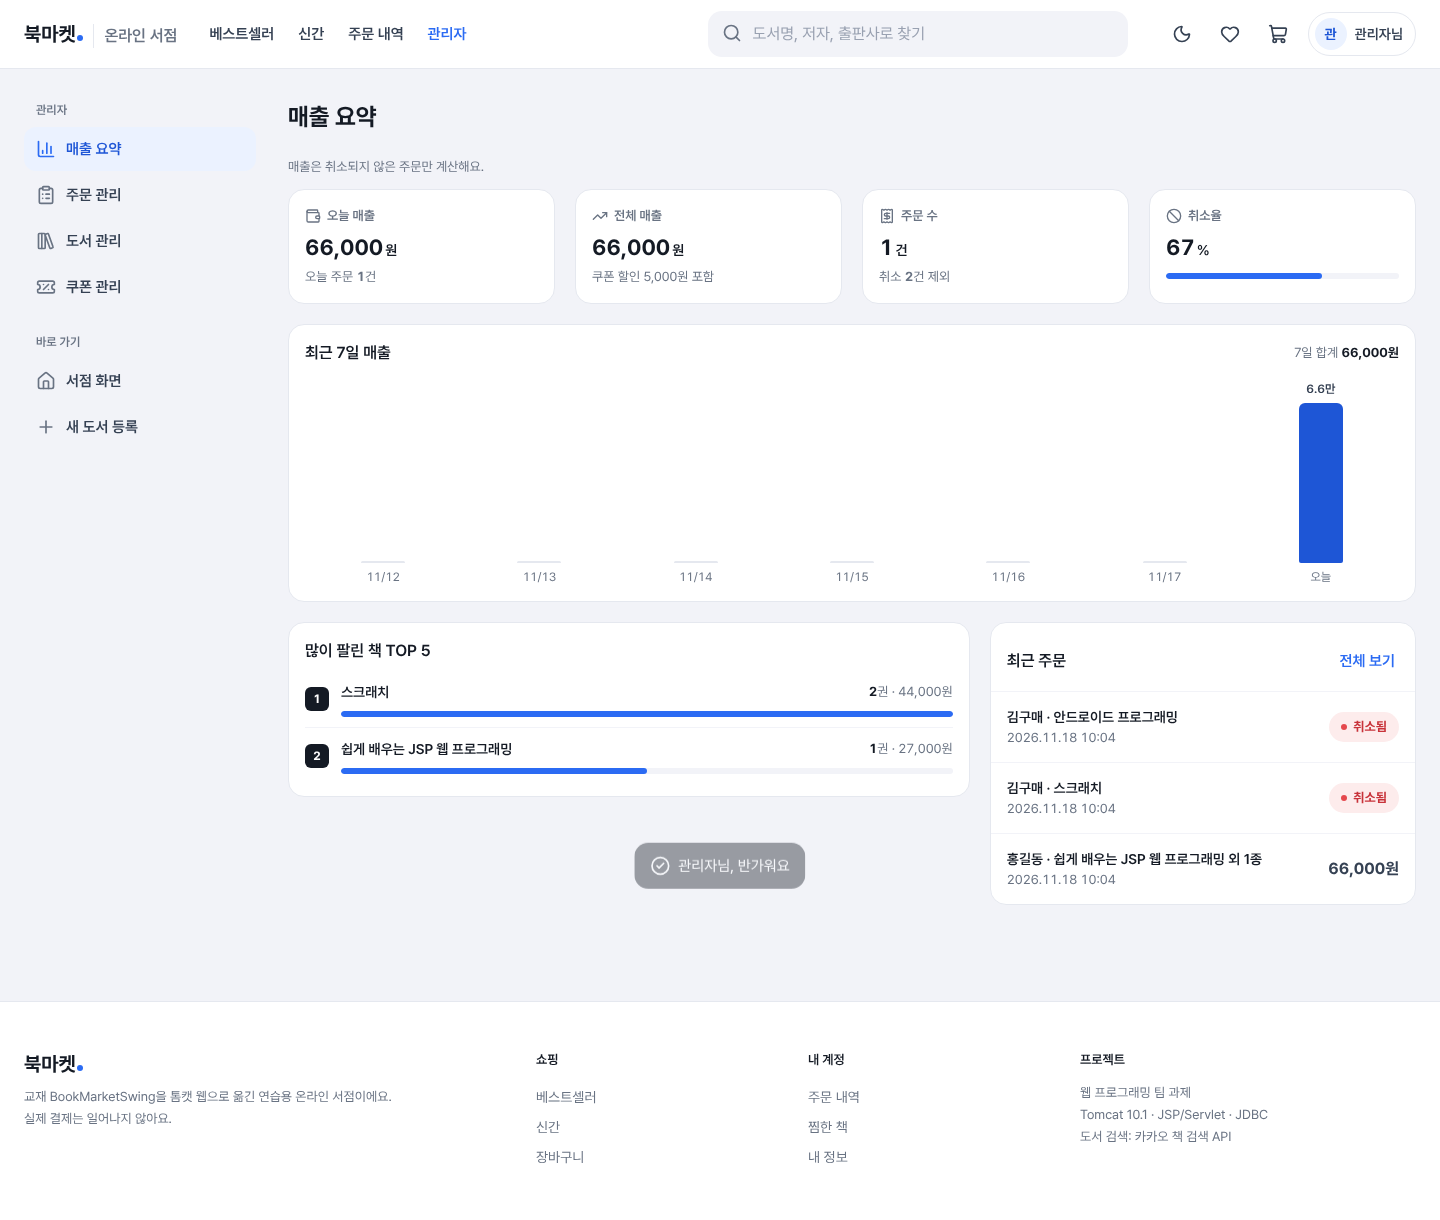
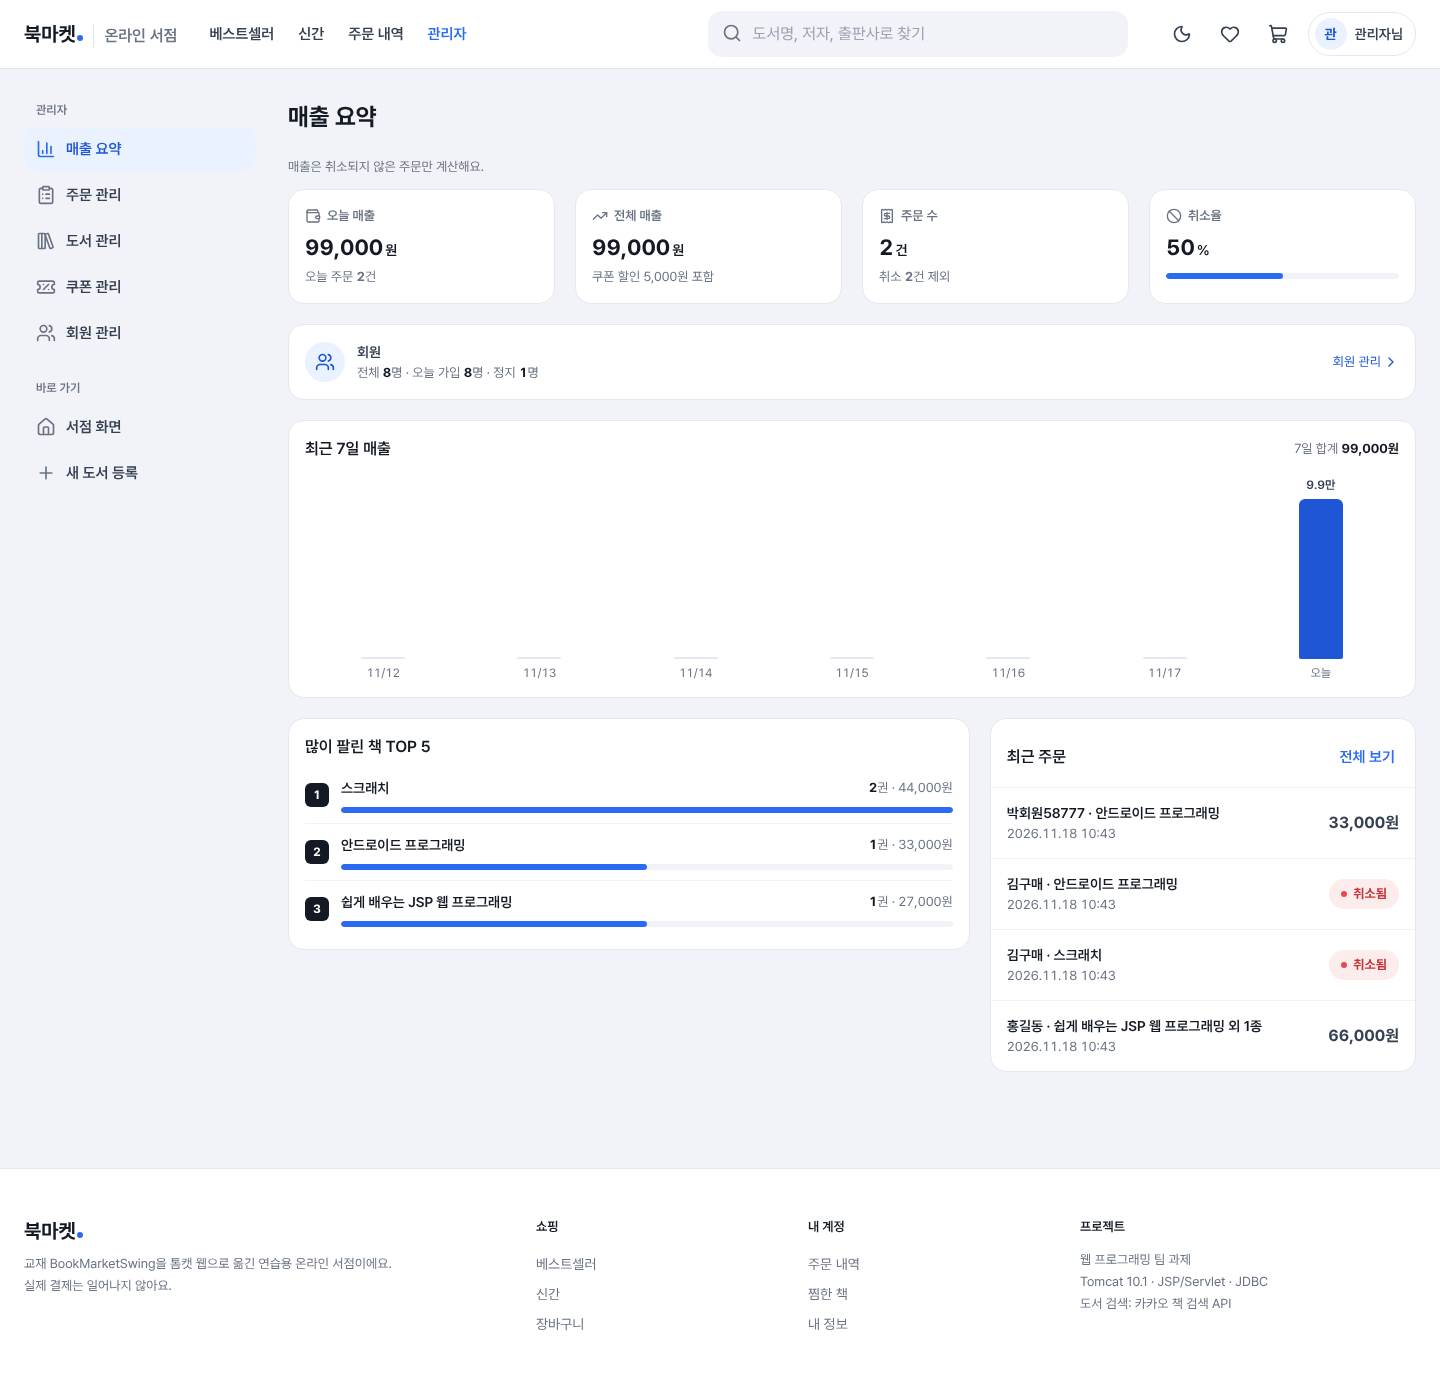
docs: 회원 관리 — README·화면 캡처·ERD·구조도 갱신
Claude-Session: https://claude.ai/code/session_013sPcTRwUcxTM9ZD5R6YqTC

diff --git a/docs/src/architecture.html b/docs/src/architecture.html
@@ -41,7 +41,7 @@
    <div class="n blue"><b>OrdersServlet</b><span>/orders, /receipt, /orders/cancel</span></div>
    <div class="n blue"><b>MyPageServlet</b><span>/mypage</span></div>
    <div class="n blue"><b>WishlistServlet</b><span>/wishlist, /wishlist/toggle</span></div>
-   <div class="n blue"><b>AdminServlet</b><span>/admin, /admin/orders·books·coupons</span></div>
+   <div class="n blue"><b>AdminServlet</b><span>/admin, /admin/orders·books·coupons·members</span></div>
   </div>
   <div class="cap">JSP (View) — WEB-INF/views + JSTL</div>
   <div class="n"><span>books · book-detail · cart · order · receipt · orders · wishlist · mypage · login · signup · oauth-mock · admin/(dashboard · orders · books · coupons)</span></div>
@@ -85,7 +85,7 @@
 <tr><td>CartItemListPage · bt5 (빈 버튼)</td><td>/cart</td><td>수량 줄이기·늘리기 구현, 배송비 계산</td></tr>
 <tr><td>CartShippingPage</td><td>/order</td><td>배송 정보 + 쿠폰 적용 + 결제 금액 요약</td></tr>
 <tr><td>CartOrderBillPage</td><td>/orders/receipt, /orders</td><td>화면에만 보이던 영수증 → DB 저장, 다시 보기·인쇄, 주문 취소</td></tr>
-<tr><td>AdminLoginDialog · AdminPage</td><td>/admin/books, /admin/coupons</td><td>Admin1234 하드코딩 → DB 관리자 계정, 매출 요약, 주문 관리·취소, 도서·쿠폰 관리</td></tr>
+<tr><td>AdminLoginDialog · AdminPage</td><td>/admin/books, /admin/coupons</td><td>Admin1234 하드코딩 → DB 관리자 계정, 매출 요약, 주문 관리·취소, 도서·쿠폰·회원 관리</td></tr>
 <tr><td>BookInIt (book.txt, EUC-KR)</td><td>BookDAO + book 테이블</td><td>파일 읽기 → JDBC, 중복으로 읽히던 버그 해결</td></tr>
 </table></div>
 </div></body></html>

diff --git a/docs/src/erd.html b/docs/src/erd.html
@@ -21,6 +21,7 @@ svg.lines{position:absolute;inset:0;pointer-events:none}
 <tr><td><span class="k uk">UK</span> provider</td><td class="t">LOCAL/GOOGLE/NAVER/KAKAO</td></tr>
 <tr><td><span class="k uk">UK</span> provider_id</td><td class="t">VARCHAR(100)</td></tr>
 <tr><td>role</td><td class="t">USER/ADMIN</td></tr>
+<tr><td>status</td><td class="t">ACTIVE/SUSPENDED</td></tr>
 <tr><td>created_at</td><td class="t">DATETIME</td></tr></table></div>
 
 <div class="box" style="left:600px;top:140px"><h3>orders <small>주문 (영수증 머리)</small></h3><table>
@@ -85,7 +86,7 @@ svg.lines{position:absolute;inset:0;pointer-events:none}
 <g stroke="#2B6BF3" stroke-width="2" fill="none" marker-end="url(#m)">
 <path d="M448 260 H598"/><path d="M1150 250 H1004"/>
 <path d="M800 551 V758"/><path d="M1150 800 H1004"/>
-<path d="M248 523 V758"/>
+<path d="M248 551 V758"/>
 <path d="M46 420 H24 V1060 H46"/>
 <path d="M1352 827 V1210 H525 V1060 H452"/>
 <path d="M525 1210 V825 H452" /></g>

diff --git a/README.md b/README.md
@@ -41,6 +41,8 @@
 | <img src="docs/screens/pc-login.png" alt="로그인"> | <img src="docs/screens/pc-mypage.png" alt="마이페이지"> |
 | **관리자 · 매출 요약** | **관리자 · 주문 관리** |
 | <img src="docs/screens/pc-admin.png" alt="관리자 대시보드"> | <img src="docs/screens/pc-admin-orders.png" alt="관리자 주문 관리"> |
+| **관리자 · 회원 관리** | **관리자 · 회원 상세** |
+| <img src="docs/screens/pc-admin-members.png" alt="관리자 회원 목록"> | <img src="docs/screens/pc-admin-member-detail.png" alt="관리자 회원 상세"> |
 
 ### 모바일
 
@@ -70,6 +72,10 @@
 **관리자** (`admin` / `admin1234`)
 - 매출 요약: 오늘·전체 매출, 주문 수, 취소율, **최근 7일 매출 그래프**, 많이 팔린 책 TOP 5
 - 주문 관리(상태 필터·취소), 도서 등록·수정·삭제, 쿠폰 관리
+- **회원 관리**: 이름·아이디·이메일 검색, 가입 방식·권한·상태 필터, 회원별 주문 수·구매액, 회원 상세(정보 + 주문 내역)
+  - **계정 정지 / 해제** — 정지하면 로그인할 수 없고, 이미 로그인해 있던 회원도 다음 요청에서 바로 로그아웃
+  - **권한 변경** (일반 ↔ 관리자) — 다시 로그인하지 않아도 바로 반영. 내 계정은 바꿀 수 없음
+  - **비밀번호 초기화** — 자체 가입 회원에게 임시 비밀번호를 만들어 한 번만 보여 줌
 
 **보안**
 - 모든 쿼리 `PreparedStatement`, 출력 `<c:out>` 이스케이프, 모든 POST에 CSRF 토큰
@@ -100,7 +106,7 @@
 | **bt5 "항목수량 줄이기" (기능 없음)** | `/cart` | **수량 − / + 구현**, 1 아래로는 안 내려감 |
 | CartShippingPage | `/order` | 회원 정보 불러오기, **쿠폰 적용**, 배송비 계산 |
 | CartOrderBillPage | `/orders/receipt` `/orders` | 영수증 DB 저장, 다시 보기·인쇄, **주문 취소** |
-| AdminPage (도서 추가) | `/admin/*` | 매출 요약, 주문 관리, 도서·쿠폰 관리 |
+| AdminPage (도서 추가) | `/admin/*` | 매출 요약, 주문 관리, 도서·쿠폰·회원 관리 |
 | BookInIt (`book.txt`) | `BookDAO` + `book` 테이블 | JDBC, 파일 끝 빈 줄로 책이 중복되던 버그 해결 |
 | `Cart.mCartCount` (static) | 세션별 `Cart` | static이 모든 사용자에게 공유되는 문제 제거 |
 | `Person.phone` (int) | `VARCHAR(20)` | `010`의 앞자리 0이 사라지는 문제 해결 |
@@ -120,6 +126,7 @@
 3. **DB 만들기**
    - Supabase: SQL Editor에서 [`sql/schema-postgres.sql`](sql/schema-postgres.sql) 실행
    - MySQL: Workbench에서 [`sql/schema.sql`](sql/schema.sql) 실행
+   - 이미 쓰던 DB라면 데이터를 지우지 않도록 [`sql/migrate-member-status.sql`](sql/migrate-member-status.sql)만 실행 (회원 관리 기능용 컬럼 1개 추가)
 4. **실행** — `Servers` 탭 → Tomcat v10.1에 `BookMarketWeb` 추가 → Start → http://localhost:8080/BookMarketWeb
 
 | 테스트 계정 · 쿠폰 | |
@@ -189,7 +196,8 @@ mysql -u root -p --default-character-set=utf8mb4 < sql\schema.sql
 | `db.properties 파일을 찾지 못했어요` | `db.properties.example`을 복사해 `db.properties`로 만들었는지 확인 |
 | `IllegalArgumentException: Prohibited character` | `db.password`에 한글·자리 표시(`여기에_…`)가 남아 있음 → 실제 비밀번호(영문·숫자·기호)로 바꾸고 Project Clean → Restart |
 | 설정을 고쳤는데 그대로임 | Eclipse가 `build/classes`의 예전 복사본을 씀 → 프로젝트 Refresh(F5) → `Project > Clean` → 톰캣 Clean → Restart |
-| `Unknown column 'status'` 등 | 최신 `schema.sql` / `schema-postgres.sql` 다시 실행 |
+| `Unknown column 'status'` 등 | 최신 `schema.sql` / `schema-postgres.sql` 다시 실행 (데이터가 지워져요) |
+| 회원 관리 화면에서 `column "status" does not exist` / `Unknown column 'status'` | 기존 데이터를 지키려면 [`sql/migrate-member-status.sql`](sql/migrate-member-status.sql) 한 줄만 실행 |
 | `relation "book" does not exist` | Supabase SQL Editor에서 `schema-postgres.sql`을 실행했는지 확인 |
 | Supabase `password authentication failed` | 사용자 이름이 `postgres.프로젝트ID` 통째인지, 비밀번호가 Database Password인지 확인 |
 | Supabase 연결 시간 초과 | Session pooler 호스트·포트 5432인지 확인. 학교 와이파이가 막으면 휴대폰 테더링으로 확인 |
@@ -216,19 +224,19 @@ src/main/java/com/market/
   cart/         CartInterface ← Cart, CartItem (세션 저장)
   oauth/        SocialProvider, MockSocialProvider, SocialProviders
   filter/       EncodingFilter, SecurityFilter(CSRF · 접근 제어)
-  util/         DBUtil(연결 풀), PasswordUtil, MiniJson, Web
+  util/         DBUtil(연결 풀), PasswordUtil, MemberSessions(정지·권한 변경 즉시 반영), MiniJson, Web
 src/main/webapp/
   css/          tokens · base · components · pc(1024px 이상)
   js/           theme(다크 모드) · ui(토스트 · 시트 · 확인 모달)
   WEB-INF/views JSP 화면 (common/ 공통 조각, admin/ 관리자)
-sql/            schema.sql (MySQL), schema-postgres.sql (Supabase)
-tests/          HTTP 종단 테스트 — 기본 63개 + 카카오 검색 13개
+sql/            schema.sql (MySQL), schema-postgres.sql (Supabase), migrate-member-status.sql (기존 DB에 회원 상태 추가)
+tests/          HTTP 종단 테스트 — 기본 63개 + 회원 관리 33개 + 카카오 검색 13개
 docs/           DESIGN.md, architecture.png, erd.png, screens/
 ```
 
 ## 테스트
 
-DB 초기화 → 톰캣 실행 → `python tests/e2e.py` (63개). 카카오 검색은 가짜 서버로 `tests/e2e_kakao.py` (13개). 자세한 방법은 [`tests/README.md`](tests/README.md).
+DB 초기화 → 톰캣 실행 → `python tests/e2e.py` (63개) → `python tests/e2e_members.py` (회원 관리 33개). 카카오 검색은 가짜 서버로 `tests/e2e_kakao.py` (13개). 자세한 방법은 [`tests/README.md`](tests/README.md).
 
 <details>
 <summary><b>소셜 로그인을 실제로 바꾸려면</b></summary>
